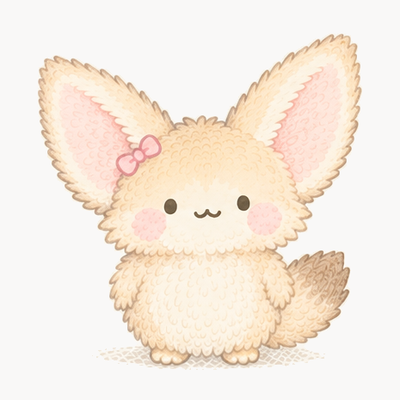
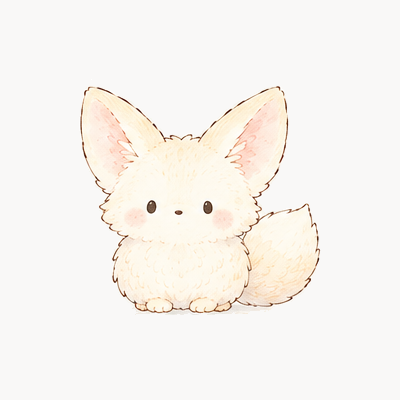
feat: 社員イラストを新版シートの「まえ」に差し替え、OGPとヒーローのaltを更新

Changed region(s): [[0.09, 0.06, 0.93, 0.93]]

diff --git a/scripts/crop_member_sheets.py b/scripts/crop_member_sheets.py
@@ -1,11 +1,11 @@
-"""キャラクターシート（docs/design/characters/<id>-sheet.png）の「ノーマル」全身を
+"""キャラクターシート（docs/design/characters/<id>-sheet.png）の「まえ」全身を
 public/members/<id>.webp（400x400）に切り出す。ローカルで手動実行する（CI では動かさない）。
 
 使い方:
     python scripts/crop_member_sheets.py ../../docs/design/characters public/members
 
 処理（crop_members.py の部品を使う）:
-  1. シート左上の「ノーマル」の範囲（x<SEARCH_W, y<SEARCH_H）で、紙の色との差が大きい画素の連結成分を求め、最大のものを本体とする
+  1. シート左上の「まえ」の範囲（SEARCH の範囲）で、紙の色との差が大きい画素の連結成分を求め、最大のものを本体とする
      （ハート・きらきら・名前札・手書き文字は別の成分なので落ちる）
   2. 本体の範囲（穴埋め・少し膨張）だけを残し、足元を基準に 400x400 の窓へ貼る（拡大縮小なし）
   3. 外周の紙（地色は #F9F8F7 より黄色い）を #F9F8F7 に置き換える
@@ -19,9 +19,10 @@ sys.path.insert(0, str(Path(__file__).parent))
 import crop_members as cm  # noqa: E402
 
 IDS = ["penta", "konko", "poko", "hime", "koko", "moko", "mike", "piyo", "holo", "kumaji"]
-SEARCH_W, SEARCH_H = 540, 575  # 「ノーマル」の列（下の区切り線は y>575）。ラベルや落書きは別の成分になり、最大の成分だけを残す
+SEARCH = (0, 80, 345, 385)  # 1段目いちばん左「まえ」の範囲（見出し帯は y<80、隣の「よこ」は x>345）  札や記号は別の成分になり、最大の成分だけを残す
 THRESHOLD = 14
-SCALE = 0.86  # 一番背の高いキャラ（影込みで約406px）が400角に収まる共通の縮小率（全員同じ率なので大きさの差は保たれる）
+SCALE = 1.0  # 新版は全員 270px 以下で描かれているので縮小しない（拡大もしない）。大きいキャラが入らなくなったら全員同じ率で下げる
+FOOT_MARGIN = 85  # 足元から窓の下端まで。一番背の高いキャラ（約230px）が窓の中ほどに来る高さ
 GROW = 5  # 毛先のやわらかい輪郭を残すための膨張（画素）
 
 
@@ -47,19 +48,22 @@ def body_mask(region: Image.Image, ref) -> Image.Image:
             if labels[y][x] == big:
                 lp[x, y] = 255
     lm = cm.fill_holes(lm).resize(region.size, Image.NEAREST)
+    x0, y0, x1, y1 = lm.getbbox()
+    if min(x0, y0, region.width - x1, region.height - y1) < 3:
+        raise SystemExit(f"本体が検索範囲の端に接しています {lm.getbbox()}（SEARCH を見直してください）")
     return lm.filter(ImageFilter.MaxFilter(GROW * 2 + 1))
 
 
 def make(sheet: Image.Image):
     ref = paper_of(sheet)
-    region = sheet.crop((0, 0, SEARCH_W, SEARCH_H))
+    region = sheet.crop(SEARCH)
     own = body_mask(region, ref)
-    region = sheet.crop((0, 0, SEARCH_W, SEARCH_H))
+    region = sheet.crop(SEARCH)
     ink = cm.ink_mask(region, ref, THRESHOLD)
     x0, y0, x1, y1 = ImageChops.multiply(own.filter(ImageFilter.MinFilter(GROW * 2 + 1)), ink).getbbox()
     win = round(cm.SIZE / SCALE)
     wx0 = (x0 + x1) // 2 - win // 2
-    wy1 = y1 + round(cm.FOOT_MARGIN / SCALE)
+    wy1 = y1 + round(FOOT_MARGIN / SCALE)
     wy0 = wy1 - win
     canvas = Image.new("RGB", (win, win), ref)
     own_only = Image.composite(region, Image.new("RGB", region.size, ref), own)
@@ -79,7 +83,7 @@ def main() -> int:
     problems = []
     for mid in IDS:
         sheet = Image.open(src / f"{mid}-sheet.png").convert("RGB")
-        if sheet.size != (1536, 1024):
+        if abs(sheet.width - 1536) > 2 or abs(sheet.height - 1024) > 2:
             problems.append(f"{mid}: サイズが {sheet.size}")
             continue
         img, (w, h) = make(sheet)

diff --git a/scripts/make_ogp.py b/scripts/make_ogp.py
@@ -36,7 +36,7 @@ html,body{margin:0;width:1200px;height:630px;background:#f9f8f7;color:#4a3728;fo
 .t2{position:absolute;left:80px;top:258px;font-size:56px;line-height:72px}
 .t3{position:absolute;left:80px;top:344px;font-size:32px;line-height:44px;color:#6e5a4c}
 .paws{position:absolute;left:84px;top:500px;display:flex;gap:34px;color:#ddd3c4}
-img{position:absolute;right:%(r)dpx;bottom:%(b)dpx}
+img{position:absolute;right:%(r)dpx;bottom:%(b)dpx;width:480px;height:480px}  /* 400 角を 1.2 倍（OGP は縮小表示される前提で、ここだけ拡大を許す） */
 </style>
 <div class="t1">ぺんぎんラボ</div><div class="rule"></div>
 <div class="t2">日常の面倒をなくす</div>
@@ -62,7 +62,7 @@ def main() -> int:
     with tempfile.TemporaryDirectory() as tmp:
         tmp = Path(tmp)
         penta.save(tmp / "penta.png")
-        html = HTML % {"f": (FONTS.as_uri()), "img": "penta.png", "r": 120, "b": 100, "paws": PAW * 3}
+        html = HTML % {"f": (FONTS.as_uri()), "img": "penta.png", "r": 50, "b": -60, "paws": PAW * 3}
         (tmp / "ogp.html").write_text(html, encoding="utf-8")
         out = Path(sys.argv[2]).resolve()
         subprocess.run([browser, "--headless", "--disable-gpu", "--hide-scrollbars",
